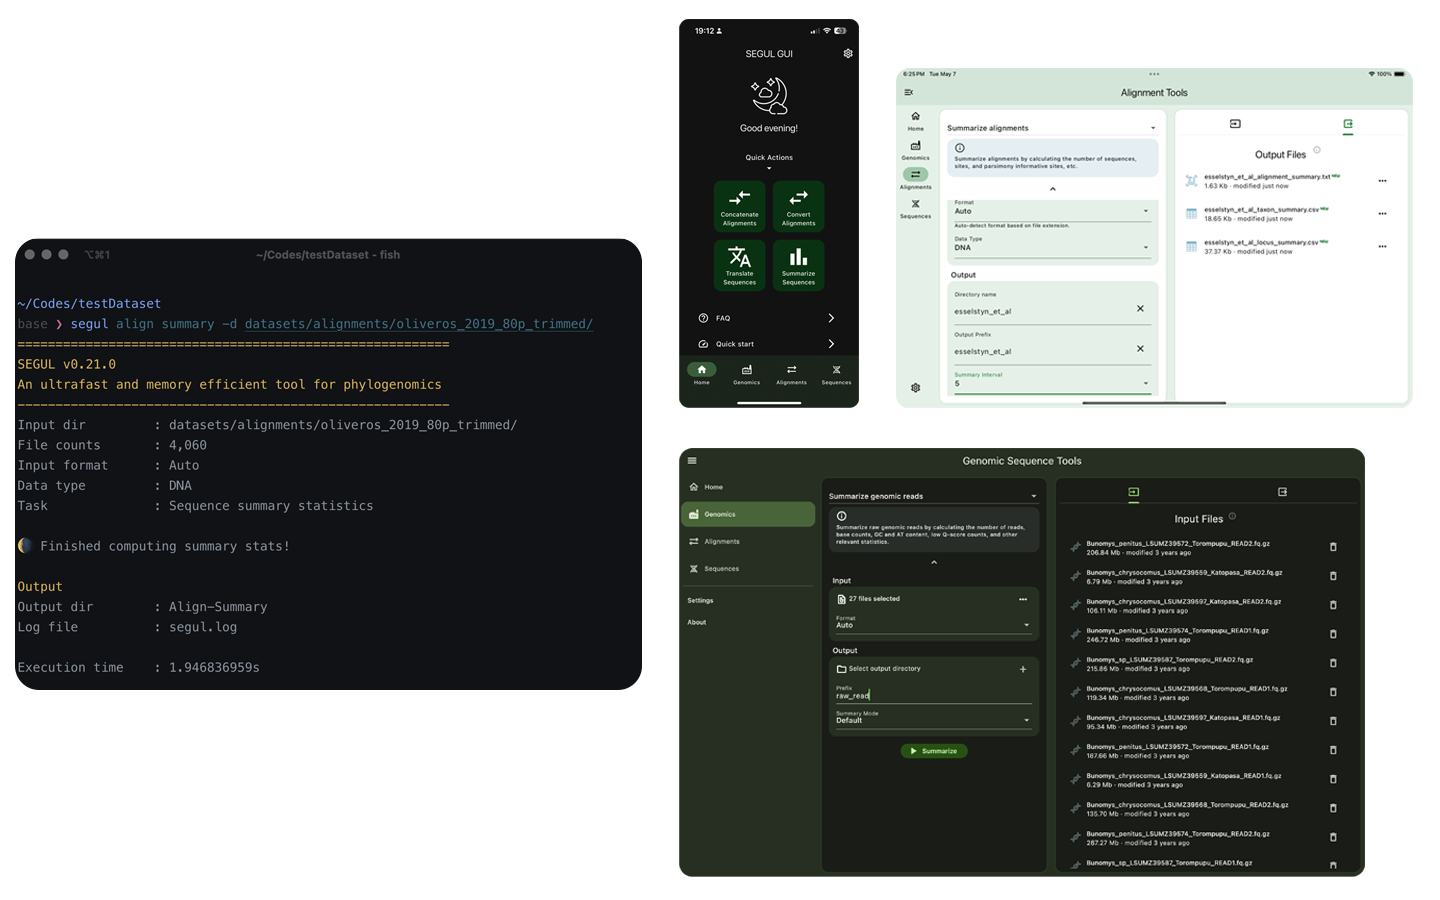
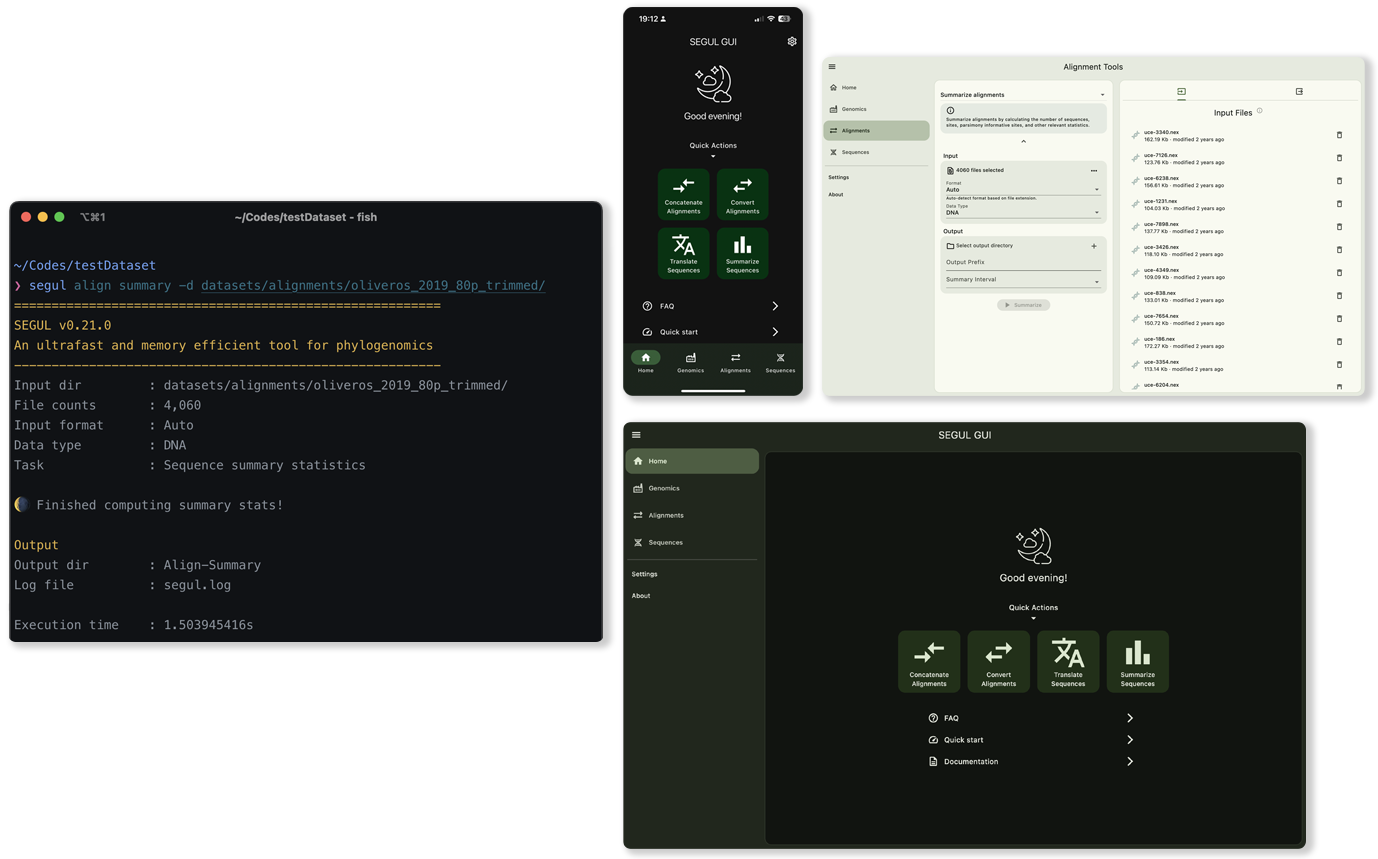
Clean front-page interface and texts.

Changed region(s): [[0.0, 0.0, 0.9985, 0.9988]]

diff --git a/website/src/pages/index.tsx b/website/src/pages/index.tsx
@@ -9,29 +9,30 @@ import styles from "./index.module.css";
 import HomepageScreenshot from "../components/HomepageScreenshot";
 import DownloadOptions from "../components/DownloadButtons";
 
-
 function HomepageHeader() {
   const { siteConfig } = useDocusaurusContext();
   return (
-    <header className={clsx("hero hero--dark", styles.heroBanner)}>
+    <header className={clsx("hero hero--primary", styles.heroBanner)}>
       <div className="container">
         <div className="row row--no-gutters">
-          <div className="col col--6"><HomepageScreenshot /></div>
           <div className="col col--6">
-        <Heading as="h1" className={clsx("hero__title", styles.title)}>
-          {siteConfig.title}
-        </Heading>
-        <p className="hero__subtitle">{siteConfig.tagline}</p>
-        <div className={styles.buttons}>
-          <Link
-            className="button button--primary button--lg"
-            to="/docs/intro/"
-          >
-            Learn SEGUL
-          </Link>
-        </div>
-        <Latest/>
-        </div>
+            <HomepageScreenshot />
+          </div>
+          <div className="col col--6">
+            <Heading as="h1" className={clsx("hero__title", styles.title)}>
+              {siteConfig.title}
+            </Heading>
+            <p className="hero__subtitle">{siteConfig.tagline}</p>
+            <div className={styles.buttons}>
+              <Link
+                className="button button--warning button--lg"
+                to="/docs/intro/"
+              >
+                Learn SEGUL
+              </Link>
+            </div>
+            <Latest />
+          </div>
         </div>
       </div>
     </header>
@@ -40,17 +41,15 @@ function HomepageHeader() {
 
 function Latest() {
   return (
-      <div className={styles.whatsNew}>
-        <Heading as="h2">
-          Latest Updates
-        </Heading>
-        <p className={styles.newMessage}>
-          <ul>
-            <li>SEGUL GUI: Now in stable version! 🎉</li>
-            <li>SEGUL CLI: Available as an ARM64 Linux binary.</li>
-          </ul>
-        </p>
-      </div>
+    <div className={styles.whatsNew}>
+      <Heading as="h3">Latest Updates</Heading>
+      <p className={styles.newMessage}>
+        <ul>
+          <li>SEGUL GUI: Now in stable version! 🎉</li>
+          <li>SEGUL CLI: Available as an ARM64 Linux binary.</li>
+        </ul>
+      </p>
+    </div>
   );
 }
 

diff --git a/website/src/components/HomepageFeatures/index.tsx b/website/src/components/HomepageFeatures/index.tsx
@@ -15,9 +15,9 @@ const FeatureList: FeatureItem[] = [
     description: (
       <>
         SEGUL offers an intuitive command line interface for efficient
-        operation, along with a user-friendly, interactive graphical interface
-        (currently in beta). Comprehensive documentation for both the
-        application and the API ensures a seamless user experience.
+        operation, along with a user-friendly, interactive graphical interface.
+        We provide comprehensive documentation to help users with varying levels
+        of technical expertise.
       </>
     ),
   },
@@ -27,10 +27,10 @@ const FeatureList: FeatureItem[] = [
     Svg: require("@site/static/img/repeatableAndReproducible.svg").default,
     description: (
       <>
-        SEGUL operates across a range of devices, from smartphones to
+        SEGUL supports a wide range of devices, from smartphones to
         high-performance computers, without requiring any runtime dependencies.
-        It also negates the need for supplementary applications like Docker,
-        enhancing its user-friendliness and accessibility.
+        It also negates the need for supplementary applications like Docker or
+        Singularity, enhancing its user-friendliness and accessibility.
       </>
     ),
   },

diff --git a/website/src/pages/index.module.css b/website/src/pages/index.module.css
@@ -8,10 +8,16 @@
   text-align: left;
   position: relative;
   overflow: hidden;
+  background: rgb(13, 96, 78);
+  background: linear-gradient(
+    110deg,
+    rgba(13, 96, 78, 1) 0%,
+    rgba(41, 120, 76, 1) 52%
+  );
 }
 
 .title {
-  padding-top: 1rem;
+  padding-top: 2rem;
 }
 
 .whatsNew {
@@ -19,7 +25,7 @@
 }
 
 .newMessage {
-  font-size: 1.4em;
+  font-size: 1em;
 }
 
 @media screen and (max-width: 996px) {
@@ -41,4 +47,3 @@
 .caption {
   margin-top: 2rem;
 }
-

diff --git a/website/docusaurus.config.ts b/website/docusaurus.config.ts
@@ -81,7 +81,7 @@ const config: Config = {
       ],
     },
     footer: {
-      style: "dark",
+      style: "light",
       copyright: `Copyright © ${new Date().getFullYear()} H. Handika & J. A. Esselstyn.`,
     },
     prism: {
@@ -89,7 +89,6 @@ const config: Config = {
       darkTheme: prismThemes.dracula,
     },
   } satisfies Preset.ThemeConfig,
-
 };
 
 export default config;
